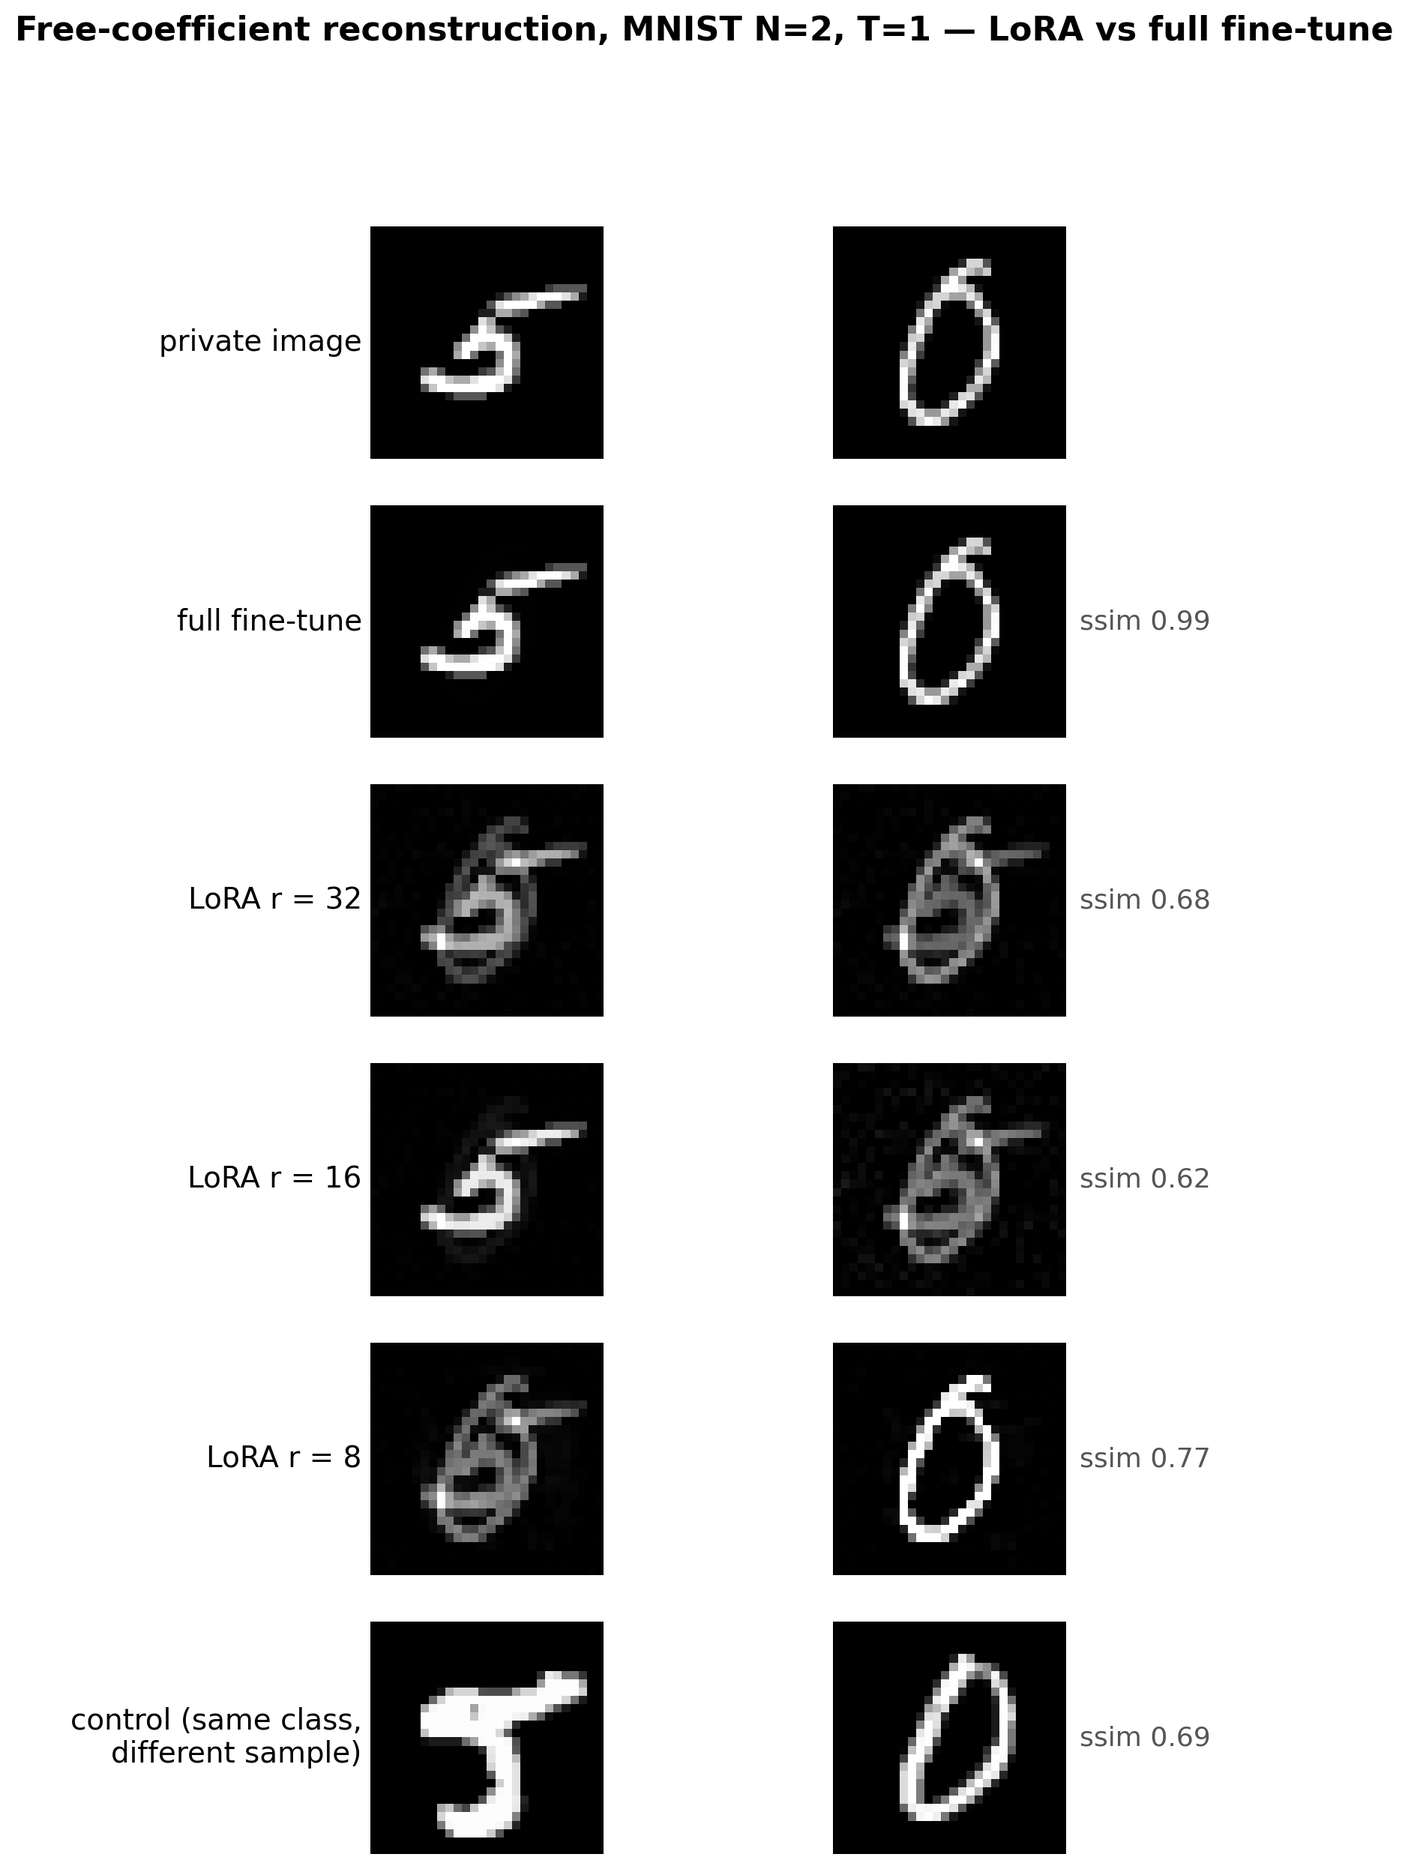
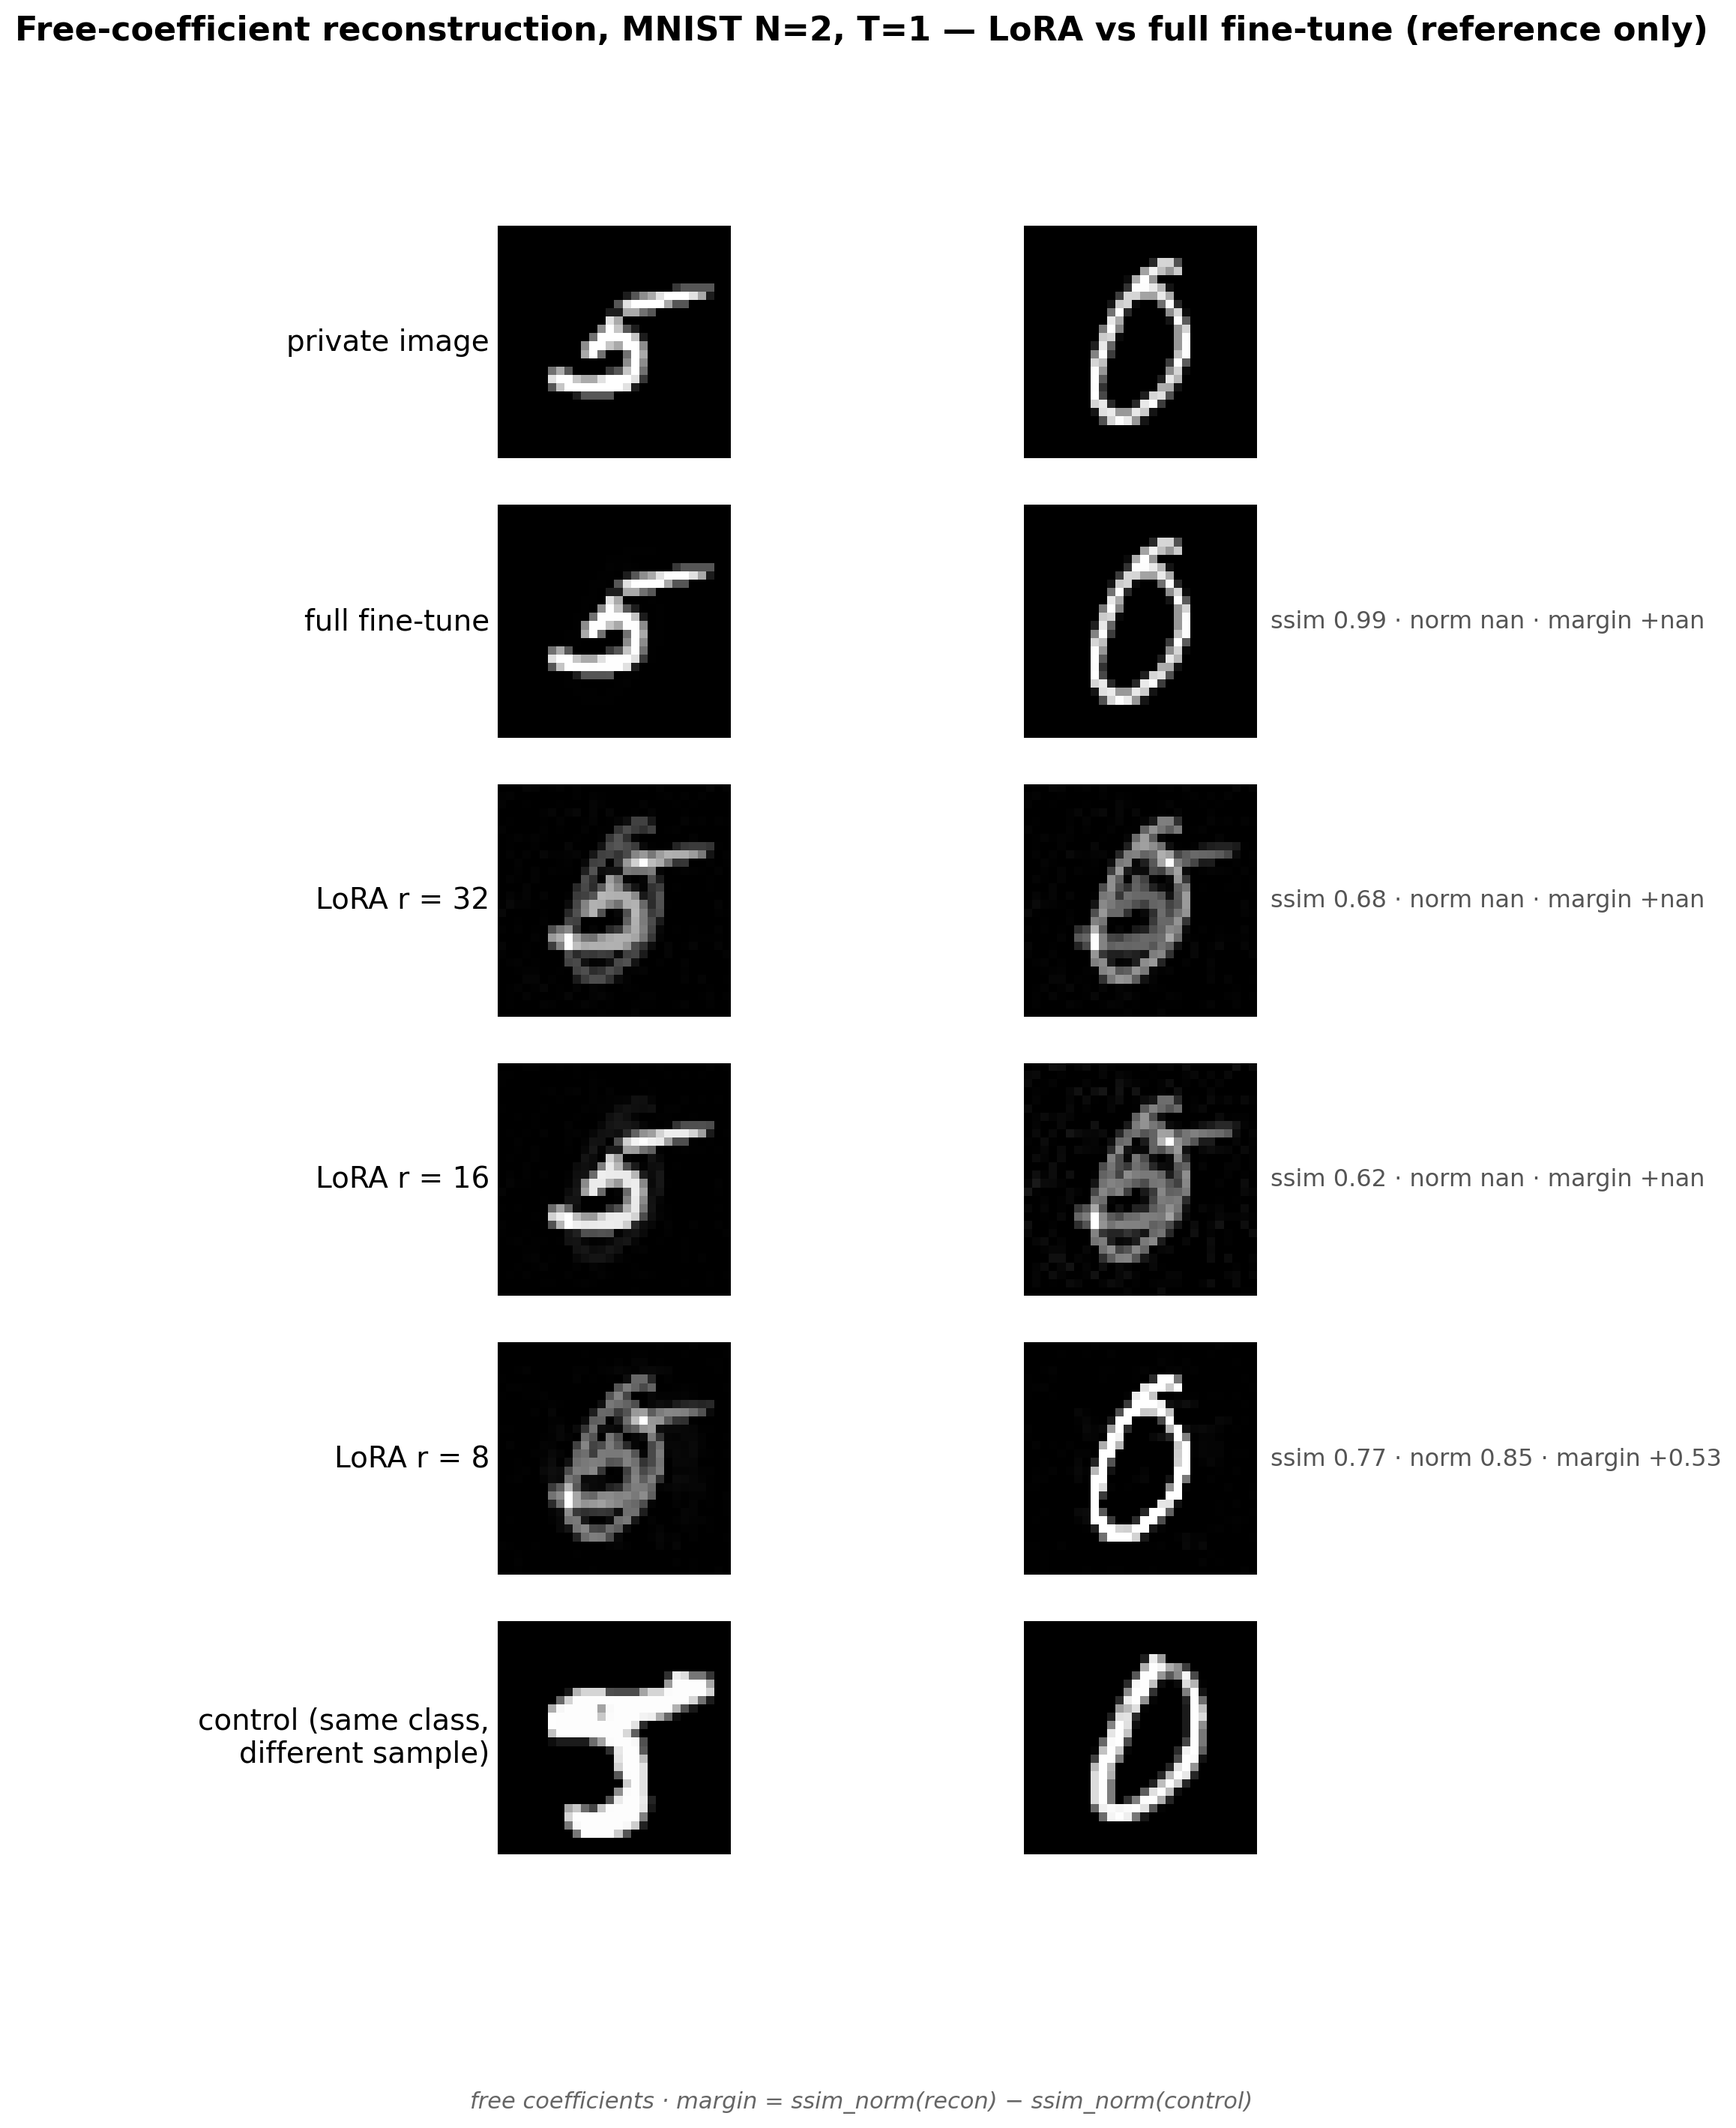
showcase: visual-pass fixes (conditional titles, recon↔ control tiles, mixing-symmetry note, wrapped footer, dataset names)

diff --git a/scripts/deck/make_recon_showcase.py b/scripts/deck/make_recon_showcase.py
@@ -109,6 +109,7 @@ def grid(rows, out, title=None, note=None):
     for r, row in enumerate(rows):
         lab, imgs, dm, ms = row[:4]
         tiles = row[4] if len(row) > 4 else None
+        tile_prefix = row[5] if len(row) > 5 else ""
         for c in range(n):
             ax = axes[r, c]
             im = to_img(imgs[c], dm)
@@ -119,14 +120,16 @@ def grid(rows, out, title=None, note=None):
             if c == 0:
                 ax.set_ylabel(lab, fontsize=14, rotation=0, ha="right", va="center")
             if tiles:
-                ax.set_xlabel(f"{tiles[c][0]:.2f} / {tiles[c][1]:.2f}", fontsize=11, color="#555")
+                ax.set_xlabel(f"{tile_prefix}{tiles[c][0]:.2f} / {tiles[c][1]:.2f}", fontsize=11, color="#555")
         if ms:
             axes[r, n - 1].text(1.06, 0.5, ms, transform=axes[r, n - 1].transAxes,
                                 va="center", fontsize=11.5, color="#555")
     if title:
         fig.suptitle(title, fontsize=16, fontweight="bold")
     if note:
-        fig.text(0.5, -0.01, note, ha="center", fontsize=11, color="#666", style="italic")
+        import textwrap
+        wrapped = "\n".join(textwrap.wrap(note, width=int(38 * n + 40)))
+        fig.text(0.5, -0.01, wrapped, ha="center", va="top", fontsize=11, color="#666", style="italic")
     fig.savefig(os.path.join(OUT, out), dpi=200, bbox_inches="tight", facecolor="white")
     plt.close(fig)
     print("[fig]", os.path.join(OUT, out))
@@ -221,17 +224,22 @@ def tsweep(write_csv=True):
                 gates.append((lab, baseline_note(d, key)))
             if first is None:
                 continue
+            cm = m(first, "control")
+            ctl_lab = (f"recon vs this control:  ssim {cm.get('ssim', float('nan')):.2f} · norm {cm.get('ssim_norm', float('nan')):.2f}")
             rows.append(("same-class control image\n(recon scored against it)", first["x_ctrl"], first["ds_mean"],
-                         row_label(first, "control").replace(f"margin {margin_norm(first,'control'):+.2f}", ""),
-                         per_tile(first, "control", first_key)))
+                         ctl_lab, per_tile(first, "control", first_key), "recon↔ "))
             fails = [lab for lab, (g, ok) in gates if not ok]
-            note = ("free coefficients (realistic attack) · under each tile: raw ssim / ssim_norm of the reconstruction vs that tile's image · "
+            sup = ("LoRA rows may blend the N images (the mixing symmetry) — raw SSIM registers that as degradation · "
+                   if any(rk != "full" for rk, _ in order if (ds, T, rk) in best) else "")
+            note = (sup + "free coefficients (realistic attack) · under each tile: raw ssim / ssim_norm of the reconstruction vs that tile's image · "
                     "row label = mean; margin = ssim_norm(recon) − ssim_norm(control); clip = pixels outside [0,1] before clamping · "
                     + ("all rows beat the dataset-mean baseline" if not fails
                        else "baseline gate FAILED for: " + ", ".join(fails)))
-            grid(rows, f"freec_{ds}_T{T}_lora_vs_full.png",
-                 title=f"Free-coefficient reconstruction, {ds} N=2, T={T} — LoRA vs full fine-tune",
-                 note=note)
+            nice = {"mnist": "MNIST", "flowers32": "Flowers-102 (32 px)", "fashion": "Fashion-MNIST"}.get(ds, ds)
+            has_full = (ds, T, "full") in best
+            ttl = (f"Free-coefficient reconstruction, {nice}, N=2, T={T} — LoRA vs full fine-tune" if has_full
+                   else f"Free-coefficient LoRA reconstruction, {nice}, N=2, T={T}")
+            grid(rows, f"freec_{ds}_T{T}_lora_vs_full.png", title=ttl, note=note)
 
 
 # ------------------------------------------------------------------ T=1 reference panels

diff --git a/figures/recon_showcase/README.md b/figures/recon_showcase/README.md
@@ -4,6 +4,7 @@ Realistic attack only: **free coefficients** (the attacker does not know the per
 oracle-coefficient runs appear nowhere. Non-trivial training length: T ∈ {5, 10, 20} SGD steps (T=1 panels are
 kept as `freec_T1_*` for reference only and are NOT part of the deliverable).
 
+Note: the flowers grids currently show LoRA ranks only (full-FT flowers rows are still computing) — their titles say so.
 Setup: N = 2 private images, one fine-tuned MLP (Haim-style), seed 42. MNIST: leaky-ReLU fine-tune (the leaking,
 kinked activation), extraction with L-BFGS; LoRA = rank-r adapter on the first layer; "full fine-tune" = all first-layer
 weights. Flowers-102 (32 px, RGB): ReLU-extraction recipe (relu_alpha 10000, SGD). Per (dataset, T, rank) the best
@@ -22,6 +23,7 @@ Metrics (experiments/metrics.py, experiments/recompute_metrics.py):
 - Under each tile: raw ssim / ssim_norm of that reconstruction vs that tile's image (control row: the reconstruction
   scored against the control image — the margin's reference).
 
+Flowers T=5/10/20 grids are near-identical: on flowers the free-c recovery is nearly T-independent in this range (kept as the T-robustness evidence).
 Honesty notes: N=2 makes the dataset-mean baseline nearly an image itself (esp. flowers, baseline 0.65), so flowers
 cells that miss it by 0.01 are shown with the failure printed rather than hidden. All numbers bound this attacker
 (free-coefficient NTK extraction from the released first-layer weight change), not the reconstruction limit.
